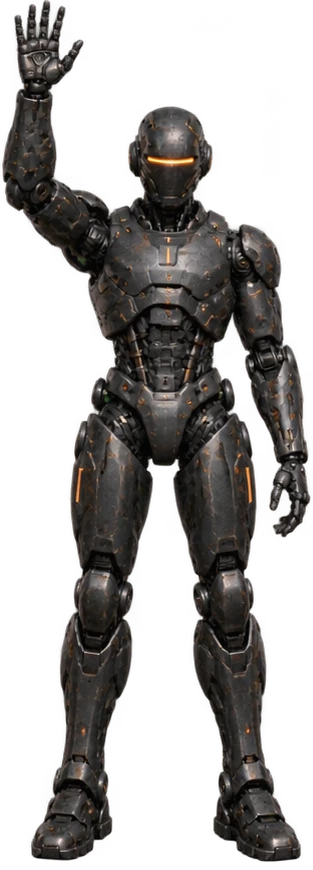
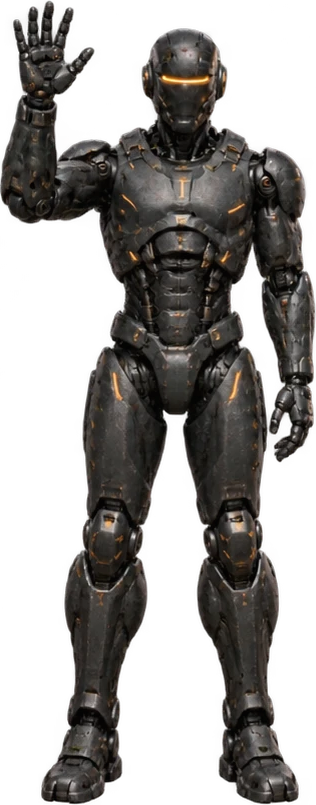
fix(workshop): face the robots forward and keep them from overlapping
Use the front-facing standing sprites. Robots are laid out side by side
from their real widths with a fixed gap, so two robots never touch.

diff --git a/packages/desktop/src/renderer/pages/workshop/utils/workshopGeometry.ts b/packages/desktop/src/renderer/pages/workshop/utils/workshopGeometry.ts
@@ -56,40 +56,44 @@ export const PANEL = { width: 600, height: 400 };
 
 /**
  * Robots stand on the floor in front of the table, full body. Every sprite ends at the same
- * baseline (the feet), so one body scale keeps all poses the same size.
+ * baseline (the feet), so one body scale keeps all poses the same size. Robots are laid out
+ * side by side from their real widths, so two of them never overlap.
  */
 export const STAND = {
   feetY: 850,
-  bodyHeight: 400,
-  firstX: 530,
-  lastX: 1170,
+  bodyHeight: 360,
+  /** Empty space between two neighbours, in picture px. */
+  gap: 10,
+  /** The row of robots is centred here, left of the activity feed. */
+  centerX: 790,
   /** Tag rows above the heads; a tag also never sits lower than the top of its own robot. */
-  tagRows: [438, 410] as const,
+  tagRows: [484, 456] as const,
 };
 
-/** Sprite size in px (width x height, feet at the bottom edge) for each pose. */
+/** Sprite size in px (cropped tight, feet at the bottom edge) for each pose. */
 export const ROBOT_SPRITE_SIZE: Record<RobotPose, { width: number; height: number }> = {
-  'arms-crossed': { width: 285, height: 785 },
-  laptop: { width: 344, height: 778 },
-  'hand-raised': { width: 313, height: 870 },
-  'head-in-hands': { width: 349, height: 780 },
+  'arms-crossed': { width: 266, height: 781 },
+  laptop: { width: 304, height: 780 },
+  'hand-raised': { width: 316, height: 805 },
+  'head-in-hands': { width: 318, height: 775 },
 };
 
-export function standX(index: number, count: number): number {
-  if (count <= 1) return (STAND.firstX + STAND.lastX) / 2;
-  return STAND.firstX + (index * (STAND.lastX - STAND.firstX)) / (count - 1);
-}
+export type RobotBox = { x: number; top: number; height: number; width: number };
 
-/** Box of one standing robot in picture px: x is the centre, top is the highest point (a raised hand counts). */
-export function robotBox(
-  pose: RobotPose,
-  index: number,
-  count: number
-): { x: number; top: number; height: number; width: number } {
-  const size = ROBOT_SPRITE_SIZE[pose];
+/** Boxes of standing robots in picture px: x is the centre, top is the highest point (a raised hand counts). */
+export function layoutRobots(poses: RobotPose[]): RobotBox[] {
   const scale = STAND.bodyHeight / ROBOT_SPRITE_SIZE['arms-crossed'].height;
-  const height = size.height * scale;
-  return { x: standX(index, count), top: STAND.feetY - height, height, width: size.width * scale };
+  const sizes = poses.map((pose) => ({
+    width: ROBOT_SPRITE_SIZE[pose].width * scale,
+    height: ROBOT_SPRITE_SIZE[pose].height * scale,
+  }));
+  const total = sizes.reduce((sum, size) => sum + size.width, 0) + STAND.gap * Math.max(0, sizes.length - 1);
+  let left = STAND.centerX - total / 2;
+  return sizes.map((size) => {
+    const box = { x: left + size.width / 2, top: STAND.feetY - size.height, height: size.height, width: size.width };
+    left += size.width + STAND.gap;
+    return box;
+  });
 }
 
 /** Percent of the picture's width or height, for absolute positioning that scales with the window. */

diff --git a/tests/unit/workshop/workshopGeometry.test.ts b/tests/unit/workshop/workshopGeometry.test.ts
@@ -12,11 +12,10 @@ import {
   pctX,
   pctY,
   projectPoint,
-  robotBox,
+  layoutRobots,
   SCREENS,
   screenTransform,
   STAND,
-  standX,
   type Quad,
 } from '@renderer/pages/workshop/utils/workshopGeometry';
 
@@ -66,32 +65,44 @@ describe('screenTransform', () => {
 });
 
 describe('standing', () => {
-  it('should centre a single robot between the first and last spot', () => {
-    expect(standX(0, 1)).toBe((STAND.firstX + STAND.lastX) / 2);
+  const ALL = ['arms-crossed', 'laptop', 'hand-raised', 'head-in-hands'] as const;
+  const sixLaptops = Array.from({ length: 6 }, () => 'head-in-hands' as const);
+
+  it('should centre a single robot on the row centre', () => {
+    expect(layoutRobots(['laptop'])[0].x).toBeCloseTo(STAND.centerX, 6);
   });
 
-  it('should spread robots from the first spot to the last', () => {
-    expect([standX(0, 6), standX(5, 6)]).toEqual([STAND.firstX, STAND.lastX]);
+  it('should return no boxes for no robots', () => {
+    expect(layoutRobots([])).toEqual([]);
+  });
+
+  it.each([[[...ALL]], [[...ALL, ...ALL]], [sixLaptops]])('should never let two robots touch: %j', (poses) => {
+    const boxes = layoutRobots(poses);
+
+    boxes.slice(1).forEach((box, i) => {
+      const previous = boxes[i];
+      expect(box.x - box.width / 2 - (previous.x + previous.width / 2)).toBeGreaterThanOrEqual(STAND.gap - 1e-6);
+    });
   });
 
   it('should put the feet of every pose on the same floor line', () => {
-    const feet = (['arms-crossed', 'laptop', 'head-in-hands', 'hand-raised'] as const).map((pose) => {
-      const box = robotBox(pose, 0, 4);
-      return box.top + box.height;
-    });
+    const feet = layoutRobots([...ALL]).map((box) => box.top + box.height);
 
     expect(feet.every((y) => Math.abs(y - STAND.feetY) < 1e-6)).toBe(true);
   });
 
   it('should draw a raised hand taller than the idle body at the same scale', () => {
-    expect(robotBox('hand-raised', 0, 1).height).toBeGreaterThan(robotBox('arms-crossed', 0, 1).height);
-    expect(robotBox('arms-crossed', 0, 1).height).toBe(STAND.bodyHeight);
+    const [idle, raised] = layoutRobots(['arms-crossed', 'hand-raised']);
+
+    expect(raised.height).toBeGreaterThan(idle.height);
+    expect(idle.height).toBeCloseTo(STAND.bodyHeight, 6);
   });
 
-  it('should keep the last robot clear of the activity feed on the right', () => {
-    const box = robotBox('laptop', 5, 6);
+  it('should keep the widest row of six clear of the activity feed on the right', () => {
+    const boxes = layoutRobots(sixLaptops);
+    const last = boxes[boxes.length - 1];
 
-    expect(box.x + box.width / 2).toBeLessThan(GARAGE.width - 380 - 16);
+    expect(last.x + last.width / 2).toBeLessThan(GARAGE.width - 380 - 16);
   });
 });
 

diff --git a/packages/desktop/src/renderer/pages/workshop/components/CrewLayer.tsx b/packages/desktop/src/renderer/pages/workshop/components/CrewLayer.tsx
@@ -12,7 +12,7 @@ import React from 'react';
 import { useTranslation } from 'react-i18next';
 import styles from '../Workshop.module.css';
 import { STATUS_COLOR } from '../utils/statusColor';
-import { pctX, pctY, robotBox, STAND } from '../utils/workshopGeometry';
+import { layoutRobots, pctX, pctY, STAND } from '../utils/workshopGeometry';
 import { poseFor, type CrewMember, type RobotPose } from '../utils/workshopModel';
 
 const ROBOT_IMAGES: Record<RobotPose, string> = {
@@ -30,10 +30,10 @@ type CrewLayerProps = {
 
 const CrewLayer: React.FC<CrewLayerProps> = ({ seated, hiddenCount, onOpen }) => {
   const { t } = useTranslation();
-  const placed = seated.map((member, index) => {
-    const pose = poseFor(member.status);
-    return { member, pose, box: robotBox(pose, index, seated.length) };
-  });
+  const poses = seated.map((member) => poseFor(member.status));
+  const boxes = layoutRobots(poses);
+  const placed = seated.map((member, index) => ({ member, pose: poses[index], box: boxes[index] }));
+  const rightEdge = boxes.length > 0 ? Math.max(...boxes.map((box) => box.x + box.width / 2)) : STAND.centerX;
 
   return (
     <>
@@ -72,7 +72,7 @@ const CrewLayer: React.FC<CrewLayerProps> = ({ seated, hiddenCount, onOpen }) =>
         {hiddenCount > 0 ? (
           <span
             className={styles.more}
-            style={{ left: `${pctX(STAND.lastX + 150)}%`, top: `${pctY(STAND.feetY - 200)}%` }}
+            style={{ left: `${pctX(rightEdge + 60)}%`, top: `${pctY(STAND.feetY - 200)}%` }}
           >
             {t('workshop.moreAgents', { count: hiddenCount })}
           </span>
